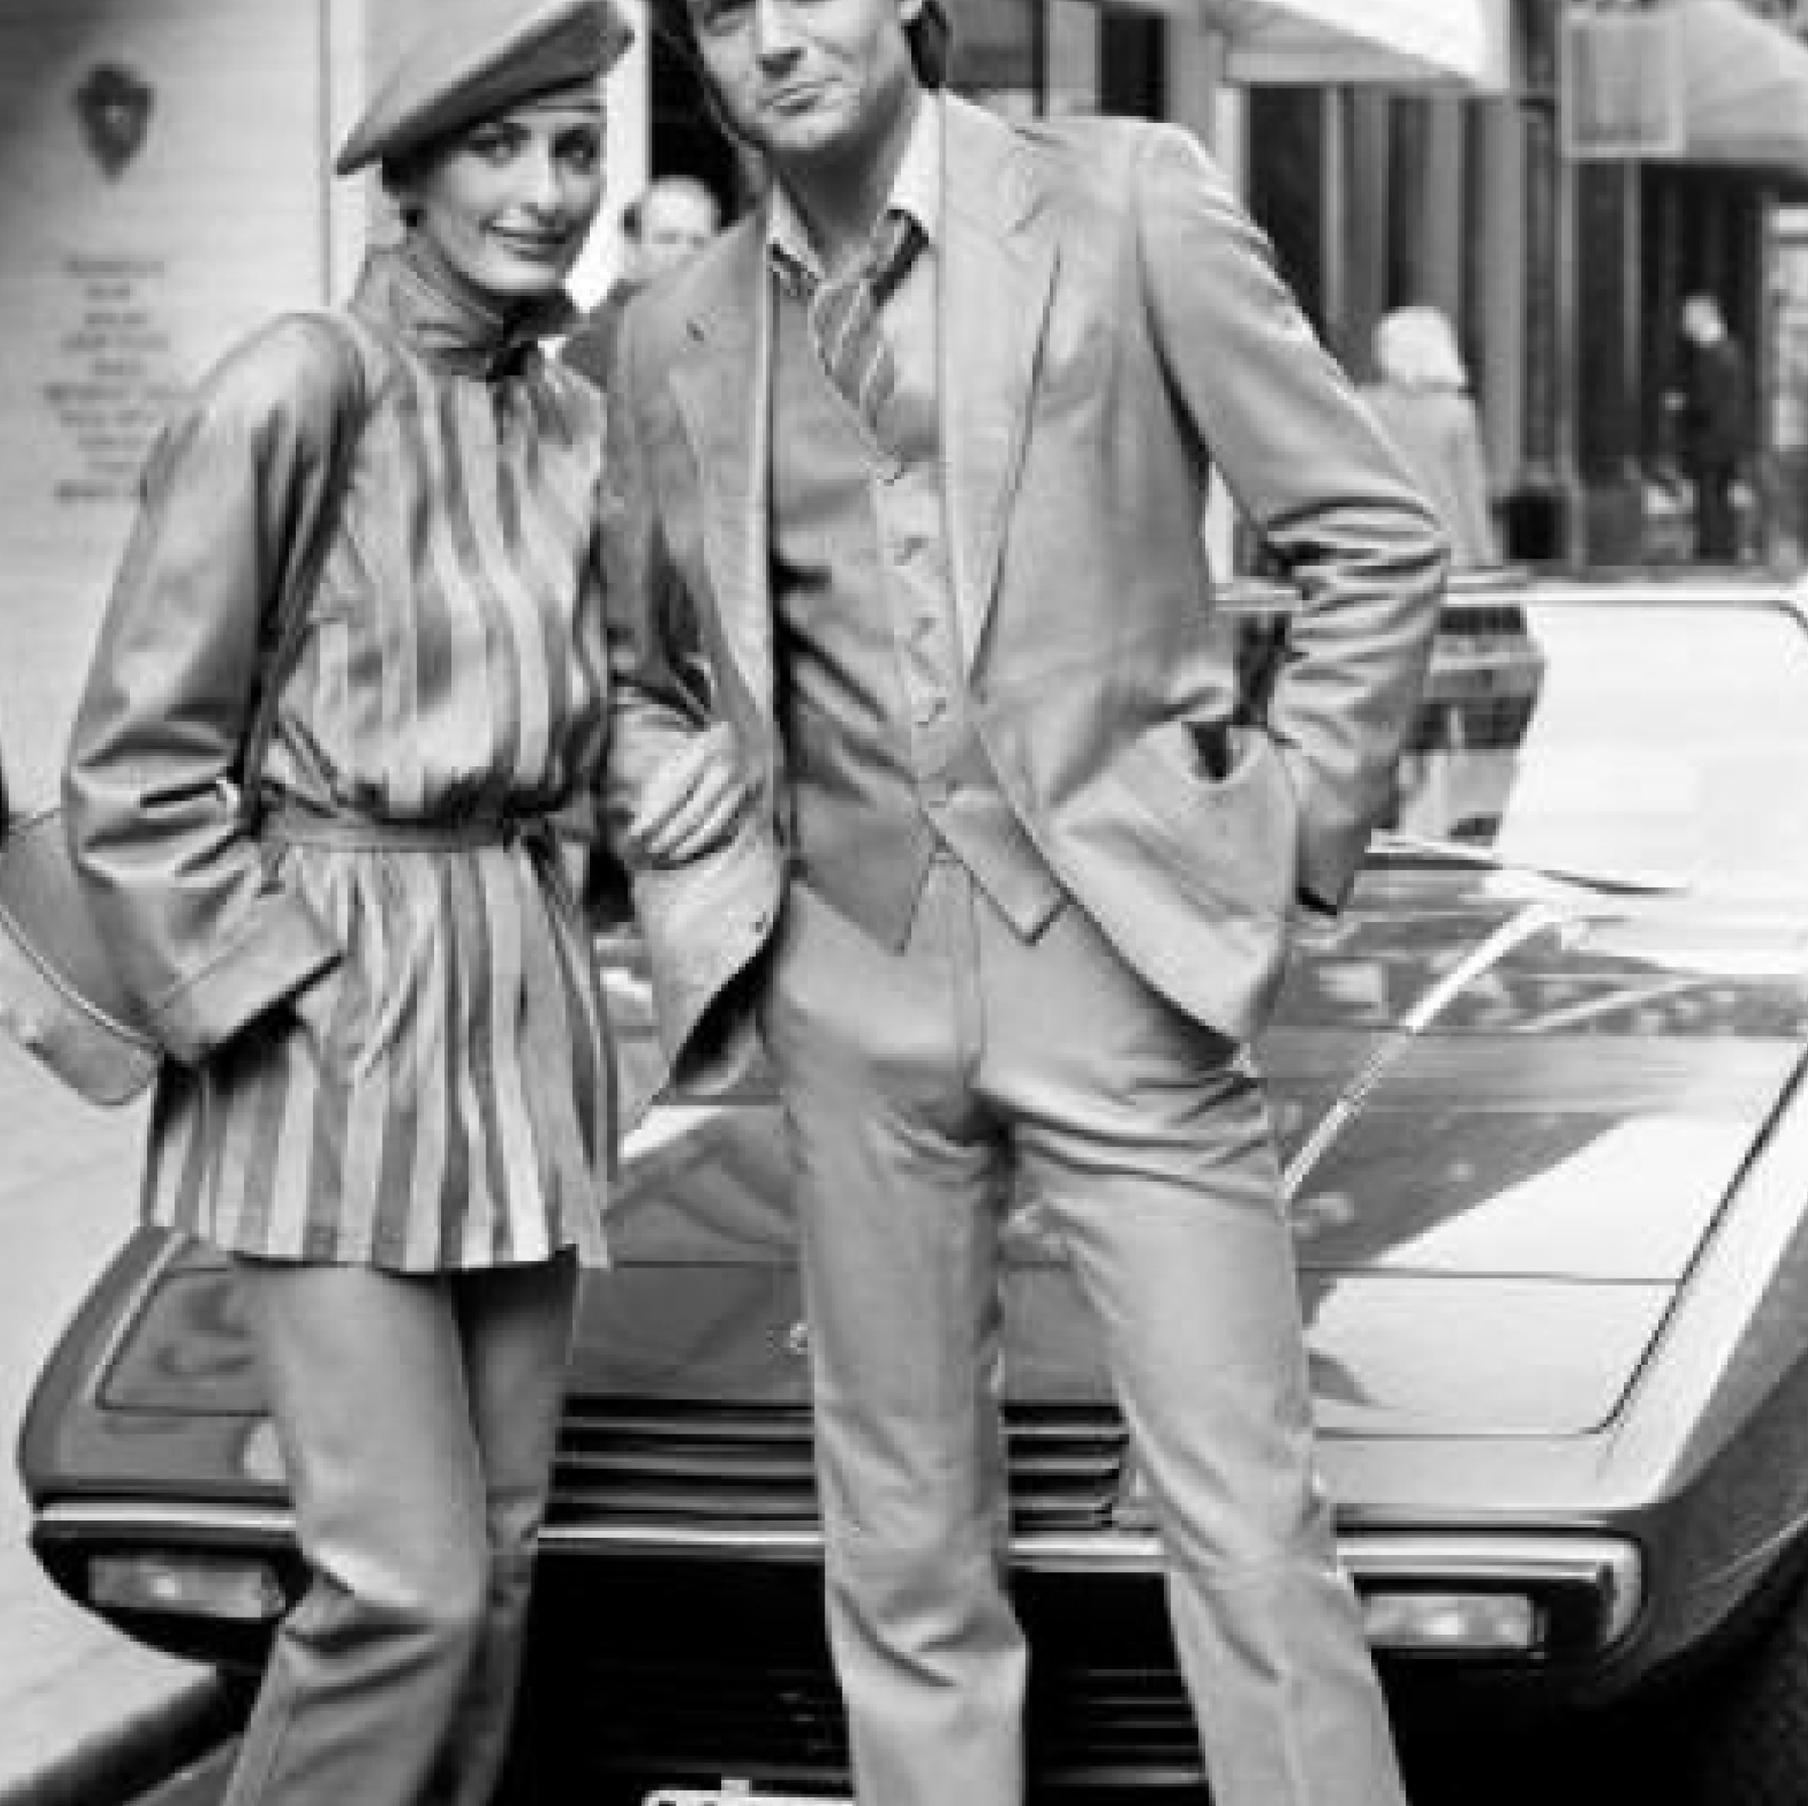
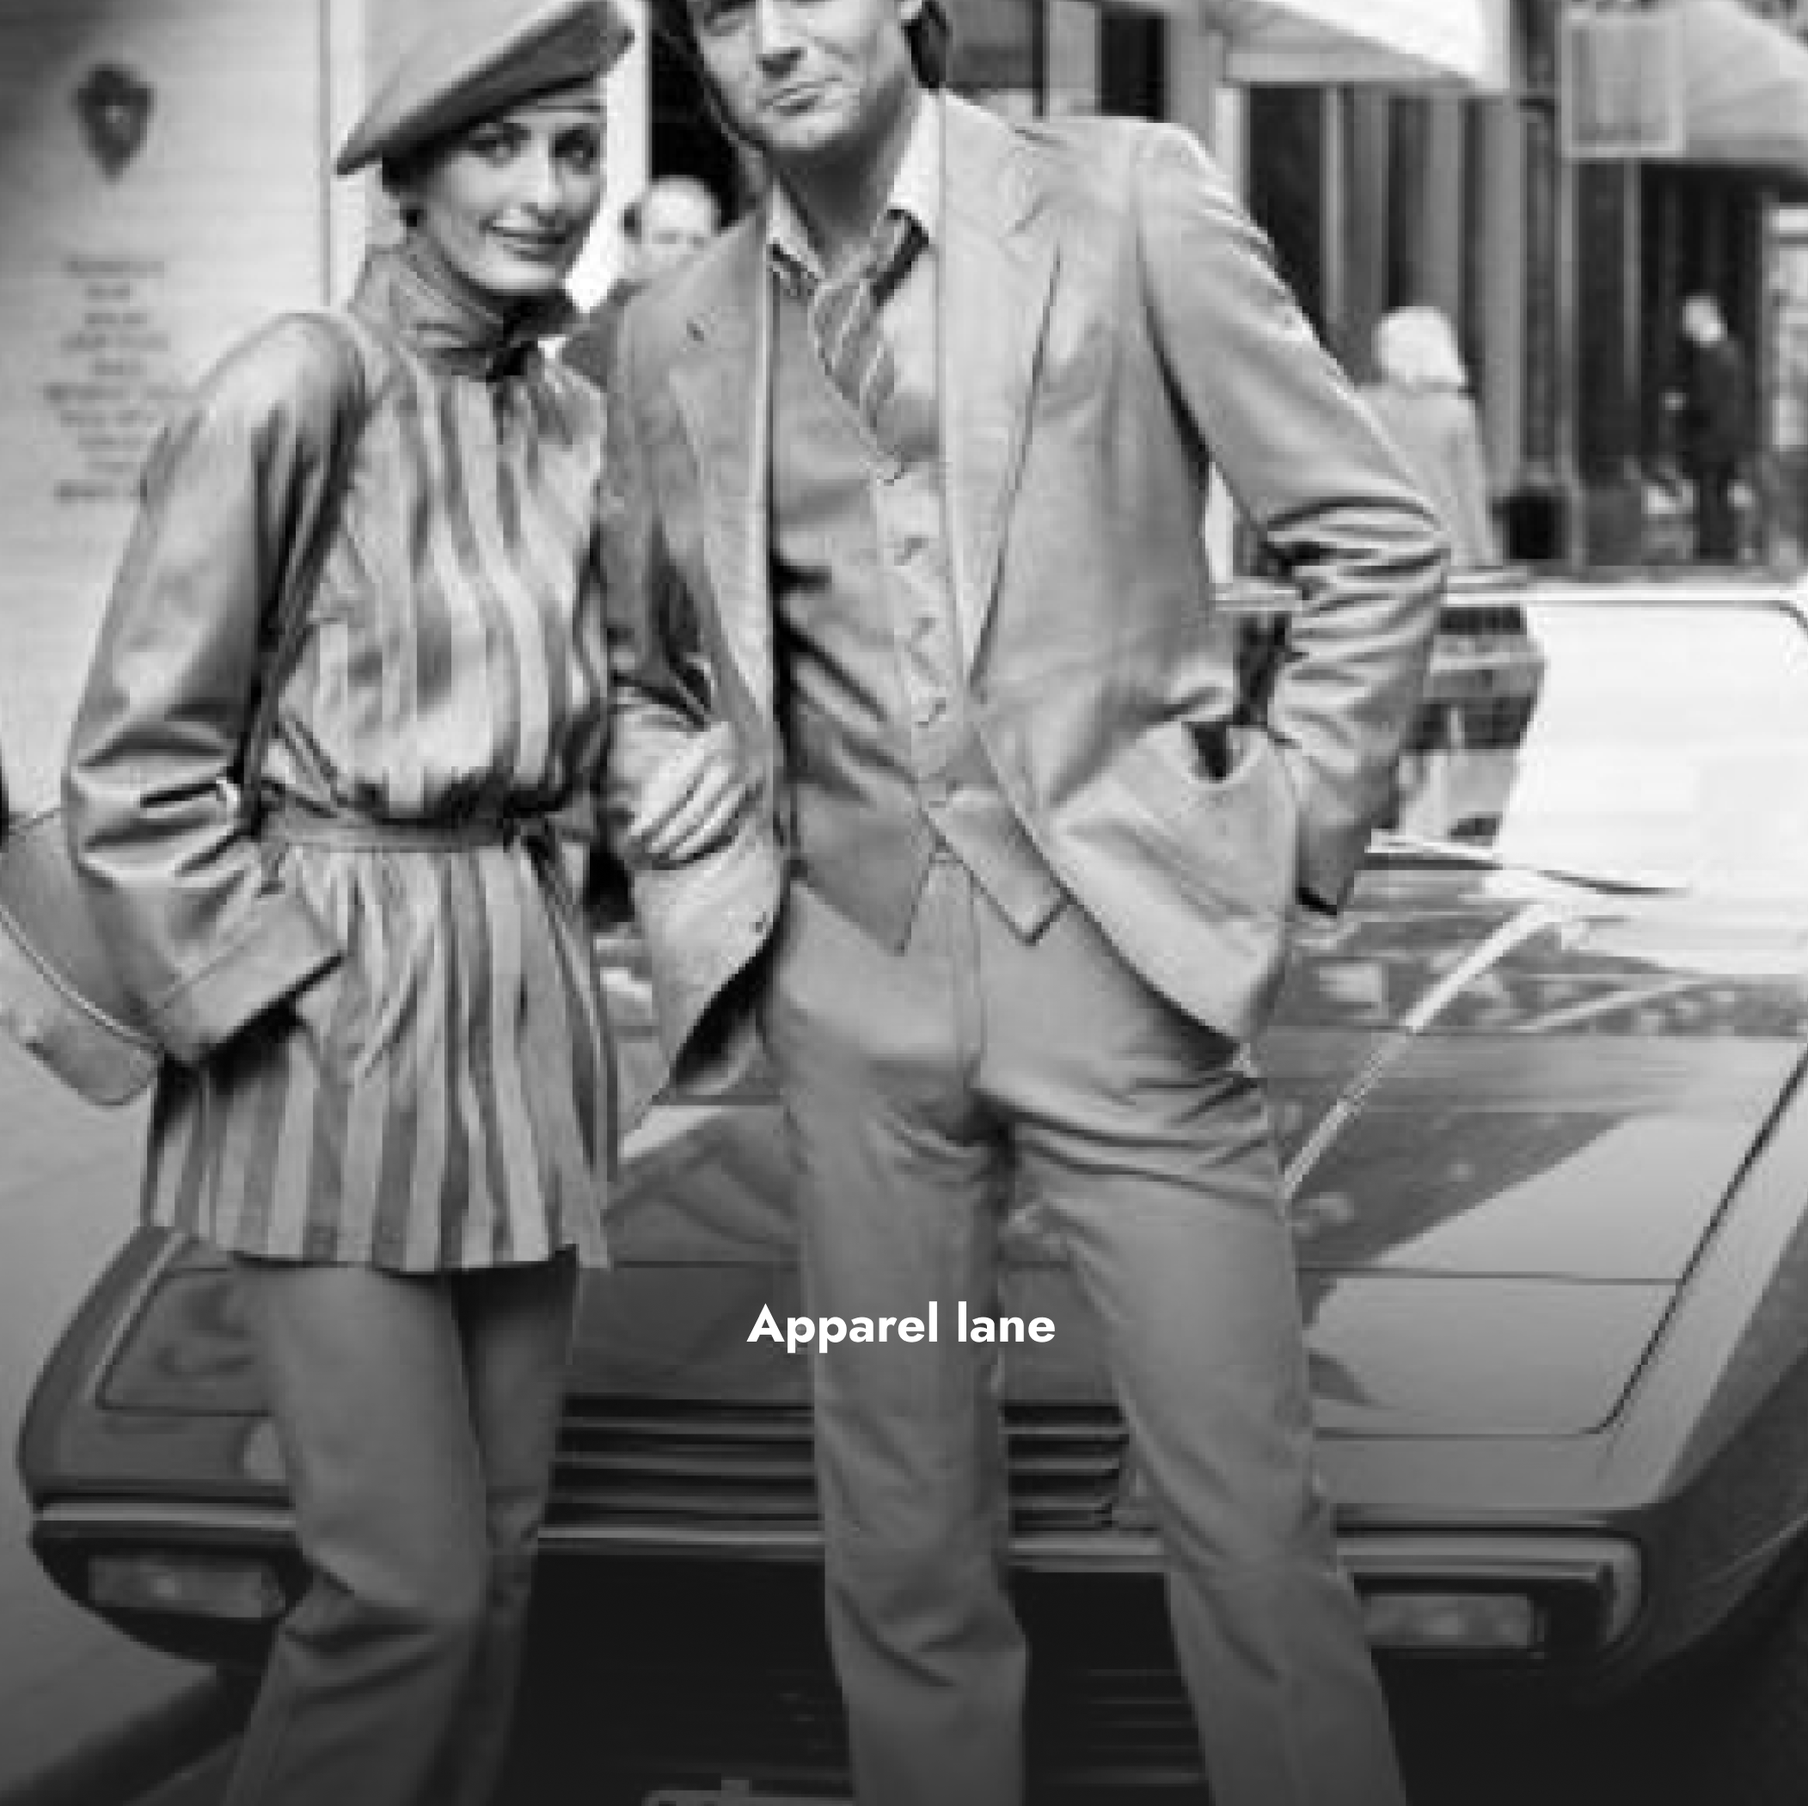
feature: the avenue collection

Changed region(s): [[0.0, 0.5262, 1.0, 1.0]]

diff --git a/src/view/home/HomePage.tsx b/src/view/home/HomePage.tsx
@@ -4,9 +4,8 @@ import { APPNAME } from "@/utils/constants";
 import { AuthLayout } from "../layout/AuthLayout";
 import { shoes } from "./data";
 import { AssetsUtils } from "@/utils/AssetsUtils";
-import { BaseButton } from "@/components/ui/buttons/BaseButton";
 import { FooterMenu } from "@/components/home/footer/footer";
-import { StylesAndDesigns } from "@/components/home";
+import { AvenueCollection, StylesAndDesigns } from "@/components/home";
 import { ShopByCategory } from "@/components/home/ShopByCategory";
 
 export const HomePage: FunctionComponent = () => {
@@ -16,7 +15,7 @@ export const HomePage: FunctionComponent = () => {
     <AuthLayout
       authNavParentClassName="flex-row-reverse"
       authPages={false}
-      parentClassname="max-md:items-start relative lg:w-full "
+      parentClassname="max-md:items-start relative lg:w-full scrollbar-hide"
     >
       <div
         className="bg absolute inset-0 bg-center bg-no-repeat"
@@ -30,128 +29,7 @@ export const HomePage: FunctionComponent = () => {
         >
           <StylesAndDesigns />
           <ShopByCategory shoes={shoes} />
-
-          <section>
-            <div>
-              <div>
-                <div className="relative">
-                  <div className="grid grid-cols-2 gap-4">
-                    <div>
-                      <img
-                        src={AssetsUtils.images.avenueImage}
-                        className={"max-h-[800px] cursor-pointer"}
-                        alt={"showcase"}
-                      />
-                      <div className="absolute top-10 flex h-full w-1/2 items-center justify-evenly p-8 text-lg font-semibold text-black">
-                        <div>
-                          The Avenue Collection
-                          <p className="py-4 text-3xl font-bold">Vintage</p>
-                          <p className="max-w-sm text-sm">
-                            The best everyday option in a Super Saver range within a
-                            reasonable price. to keep you 100 percent styled. Join us as
-                            we walk you through the lanes.
-                            <BaseButton containerCLassName="bg-black mt-14 rounded-none w-fit px-20 text-white">
-                              Explore
-                            </BaseButton>
-                          </p>
-                        </div>
-                      </div>
-                    </div>
-                    <div>
-                      <img
-                        src={AssetsUtils.images.apparelLane}
-                        className={"max-h-[800px] cursor-pointer"}
-                        alt={"showcase"}
-                      />
-                      <div className="absolute top-10 flex h-full w-1/2 items-center justify-evenly text-lg font-semibold text-white">
-                        Apparel lane
-                      </div>
-                    </div>
-                  </div>
-                </div>
-                <div className="relative">
-                  <div className="grid grid-cols-3 gap-4">
-                    <div>
-                      <img
-                        src={AssetsUtils.images.avenueImage}
-                        className={"max-h-[800px] cursor-pointer"}
-                        alt={"showcase"}
-                      />
-                      <div className="absolute top-10 flex h-full w-1/2 items-center justify-evenly text-lg font-semibold text-black">
-                        <div>
-                          The Avenue Collection
-                          <p className="text-3xl font-bold">Vintage</p>
-                          <p className="">
-                            The best everyday option in a Super Saver range within a
-                            reasonable price. to keep you 100 percent styled. Join us as
-                            we walk you through the lanes.
-                            <BaseButton containerCLassName="bg-black mt-10 rounded-none w-fit px-20 text-white">
-                              View all
-                            </BaseButton>
-                          </p>
-                        </div>
-                      </div>
-                    </div>
-                    <div>
-                      <img
-                        src={AssetsUtils.images.apparelLane}
-                        className={"max-h-[800px] cursor-pointer"}
-                        alt={"showcase"}
-                      />
-                      <div className="absolute top-10 flex h-full w-1/2 items-center justify-evenly text-lg font-semibold text-white">
-                        Apparel lane
-                      </div>
-                    </div>
-                    <div>
-                      <img
-                        src={AssetsUtils.images.apparelLane}
-                        className={"max-h-[800px] cursor-pointer"}
-                        alt={"showcase"}
-                      />
-                      <div className="absolute top-10 flex h-full w-1/2 items-center justify-evenly text-lg font-semibold text-white">
-                        Apparel lane
-                      </div>
-                    </div>
-                  </div>
-                </div>
-                <div className="relative">
-                  <div className="grid grid-cols-2">
-                    <div>
-                      <img
-                        src={AssetsUtils.images.avenueImage}
-                        className={"max-h-[800px] cursor-pointer"}
-                        alt={"showcase"}
-                      />
-                      <div className="absolute top-10 flex h-full w-1/2 items-center justify-evenly text-lg font-semibold text-black">
-                        <div>
-                          The Avenue Collection
-                          <p className="text-3xl font-bold">Vintage</p>
-                          <p className="">
-                            The best everyday option in a Super Saver range within a
-                            reasonable price. to keep you 100 percent styled. Join us as
-                            we walk you through the lanes.
-                            <BaseButton containerCLassName="bg-black mt-10 rounded-none w-fit px-20 text-white">
-                              View all
-                            </BaseButton>
-                          </p>
-                        </div>
-                      </div>
-                    </div>
-                    <div>
-                      <img
-                        src={AssetsUtils.images.apparelLane}
-                        className={"max-h-[800px] cursor-pointer"}
-                        alt={"showcase"}
-                      />
-                      <div className="absolute top-10 flex h-full w-1/2 items-center justify-evenly text-lg font-semibold text-white">
-                        Apparel lane
-                      </div>
-                    </div>
-                  </div>
-                </div>
-              </div>
-            </div>
-          </section>
+          <AvenueCollection />
 
           <section className="relative mt-20">
             <img
@@ -160,9 +38,9 @@ export const HomePage: FunctionComponent = () => {
               alt={"showcase"}
             />
             <div className="right1/2 absolute top-0 z-20 flex h-full w-full flex-col items-center justify-center text-white">
-              Visit our Avenue
-              <div>Wimbledon</div>
-              <div>See Addresses</div>
+              {"Visit our Avenue"}
+              <div>{"Wimbledon"}</div>
+              <div>{"See Addresses"}</div>
             </div>
           </section>
           <FooterMenu />

diff --git a/src/components/home/ShopByCategory.tsx b/src/components/home/ShopByCategory.tsx
@@ -63,10 +63,10 @@ export const ShopByCategory: React.FC<{ shoes: IShoes[] }> = ({ shoes }) => {
   }, [emblaApi, onSelect]);
 
   return (
-    <section className="flex flex-col items-center py-16 text-center">
+    <section className="py-16 text-center">
       <h3 className="text-[39px] font-bold">{"Shop By Category"}</h3>
       <nav className="py-10">
-        <ul className="flex items-start gap-8">
+        <ul className="flex items-start justify-center gap-8 text-center">
           <li className="cursor-pointer text-xl text-gray-500">{"For Woman"}</li>
           <li className="cursor-pointer border-b-2 border-black pb-2 text-xl">
             {"For Men"}
@@ -74,7 +74,7 @@ export const ShopByCategory: React.FC<{ shoes: IShoes[] }> = ({ shoes }) => {
         </ul>
       </nav>
       <Tab.Group>
-        <Tab.List className="-mt-2 flex items-start gap-2 text-lg">
+        <Tab.List className="-mt-2 flex items-start justify-center gap-2 text-lg">
           {shopByCategoryNavData.map(({ id, name }) => (
             <Tab
               key={id}
@@ -83,7 +83,7 @@ export const ShopByCategory: React.FC<{ shoes: IShoes[] }> = ({ shoes }) => {
             >
               {({ selected }) => (
                 <button
-                  className={`px-6 py-2 ${selected ? "h-full bg-gray-100" : ""}
+                  className={`px-6 py-2 ${selected ? "transition-300 h-full bg-gray-100 duration-300" : ""}
                   `}
                 >
                   {name}
@@ -98,10 +98,10 @@ export const ShopByCategory: React.FC<{ shoes: IShoes[] }> = ({ shoes }) => {
           ref={emblaRef}
           className="relative flex min-w-full flex-col items-center justify-center overflow-hidden"
         >
-          <div className="mt-36  flex w-[70rem] items-center  gap-32">
+          <div className="mt-36  flex  w-full items-center  gap-32">
             {shoes.map(({ id, shoe, name, profit, loss }) => {
               return (
-                <div key={id}>
+                <div key={id} className="cursor-pointer">
                   <div className="flex h-40 items-center justify-center">
                     <img src={shoe} alt={name} />
                   </div>
@@ -119,7 +119,7 @@ export const ShopByCategory: React.FC<{ shoes: IShoes[] }> = ({ shoes }) => {
           </BaseButton>
         </div>
         {!nextBtnDisabled && (
-          <div className="absolute -left-20 top-0 flex h-full items-start">
+          <div className="absolute -left-20 top-0 flex h-full items-start 2xl:-left-10">
             <button onClick={scrollNext}>
               <img
                 src={AssetsUtils.icons.arrowLeft}
@@ -130,7 +130,7 @@ export const ShopByCategory: React.FC<{ shoes: IShoes[] }> = ({ shoes }) => {
           </div>
         )}
         {!prevBtnDisabled && (
-          <div className="absolute -right-20 top-0 flex h-full items-start">
+          <div className="absolute -right-20 top-0  flex h-full items-start 2xl:-right-10">
             <button onClick={scrollPrev}>
               <img
                 src={AssetsUtils.icons.arrowLeft}

diff --git a/src/components/home/AvenueCollection.tsx b/src/components/home/AvenueCollection.tsx
@@ -1,0 +1,44 @@
+import { FunctionComponent } from "react";
+
+import { AssetsUtils } from "@/utils/AssetsUtils";
+import { BaseButton } from "../ui/buttons/BaseButton";
+
+export const AvenueCollection: FunctionComponent = () => {
+  return (
+    <section>
+      <div className="relative my-4">
+        <div className="grid grid-cols-2 gap-4">
+          <img src={AssetsUtils.images.avenueImage} alt={"showcase"} />
+          <div className="absolute left-[4.6rem] top-44 flex h-full w-1/2 items-center p-8 text-lg font-semibold text-black xl:left-[8.5rem] 2xl:top-60">
+            <BaseButton containerCLassName="bg-black mt-14 rounded-none w-fit px-20 text-white">
+              {"Explore"}
+            </BaseButton>
+          </div>
+          <img src={AssetsUtils.images.apparelLane} alt={"showcase"} />
+        </div>
+      </div>
+      <div className="relative">
+        <div className="my-4 grid grid-cols-3 gap-4">
+          <img
+            src={AssetsUtils.images.fifthAvenue}
+            className={"max-h-[800px] cursor-pointer"}
+            alt={"showcase"}
+          />
+          <img
+            src={AssetsUtils.images.jordan}
+            className={"max-h-[800px] cursor-pointer"}
+            alt={"showcase"}
+          />
+          <img
+            src={AssetsUtils.images.daVillage}
+            className={"max-h-[800px]"}
+            alt={"showcase"}
+          />
+        </div>
+      </div>
+      <div className="relative my-4">
+        <img src={AssetsUtils.images.seventhAndEightAvenueCollection} alt={"showcase"} />
+      </div>
+    </section>
+  );
+};

diff --git a/src/utils/AssetsUtils.ts b/src/utils/AssetsUtils.ts
@@ -18,8 +18,8 @@ import apparelLane from "@/assets/images/apparelLane.png";
 import daVillage from "@/assets/images/daVillage.png";
 import eightAvenueCollection from "@/assets/images/eightAvenueCollection.png";
 import fifthAvenue from "@/assets/images/fifthAvenue.png";
-import jordan from "@/assets/images/jordan.png";
-import seventhAvenueCollection from "@/assets/images/seventhAvenueCollection.png";
+import jordan from "@/assets/images/jordanStrt.png";
+import seventhAndEightAvenueCollection from "@/assets/images/seventhAndEightAvenue.png";
 import avenueImage from "@/assets/images/theAvenueImage.png";
 import wimbledon from "@/assets/images/wimbledon.png";
 import arrowLeft from "@/assets/icons/arrowLeft.png";
@@ -50,7 +50,7 @@ export const AssetsUtils = {
     eightAvenueCollection,
     fifthAvenue,
     jordan,
-    seventhAvenueCollection,
+    seventhAndEightAvenueCollection,
     avenueImage,
     wimbledon,
   },

diff --git a/src/index.css b/src/index.css
@@ -31,3 +31,14 @@ body {
   height: 40px; /* Height of each option */
   width: 200px; /* Width of each option */
 }
+
+/* Hide scrollbar for Chrome, Safari and Opera */
+.scrollbar-hide::-webkit-scrollbar {
+  display: none;
+}
+
+/* Hide scrollbar for IE, Edge and Firefox */
+.scrollbar-hide {
+  -ms-overflow-style: none; /* IE and Edge */
+  scrollbar-width: none; /* Firefox */
+}

diff --git a/src/components/home/StylesAndDesigns.tsx b/src/components/home/StylesAndDesigns.tsx
@@ -4,7 +4,7 @@ import { AssetsUtils } from "@/utils/AssetsUtils";
 
 export const StylesAndDesigns: FunctionComponent = () => {
   return (
-    <div className="text-center">
+    <div className="flex flex-col text-center">
       <p className="text-[39px]">{"The Last Avenue"}</p>
       <h1 className="text-[95px] font-bold">{"All styles and Designs"}</h1>
       <img

diff --git a/src/components/home/index.ts b/src/components/home/index.ts
@@ -1,1 +1,2 @@
 export * from "./StylesAndDesigns";
+export * from "./AvenueCollection";
